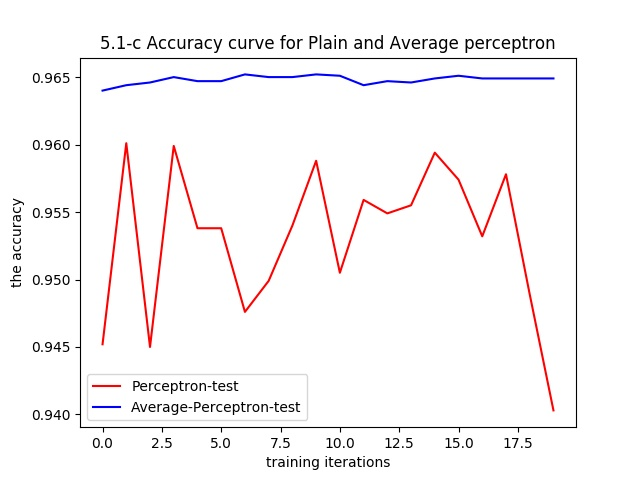
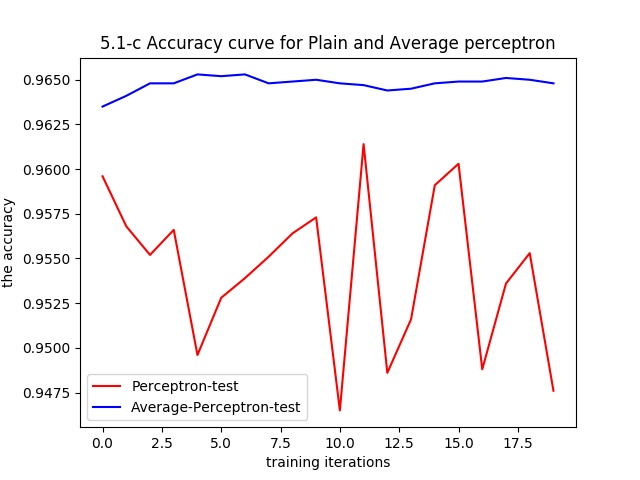
update

diff --git a/machine_learning/hw1/hw1_part1_a.py b/machine_learning/hw1/hw1_part1_a.py
@@ -10,12 +10,14 @@ train = pd.read_csv("data/fashion-mnist_train.csv")
 T = 50  # Training iterations
 
 
-y = []  # Translate the label to (+1,-1)
+y = np.zeros(len(train))  # Translate the label to (+1,-1)
 for i in range(len(train)):
-    y.append(-1 if train.iloc[i][0] % 2 else 1)
+    y[i] = -1 if train.iloc[i][0] % 2 else 1
+print(y)
+
 
 def sign(w, x):
-    if sum(w*x) >= 0:
+    if np.dot(w, x) >= 0:
         return 1
     else:
         return -1
@@ -30,19 +32,15 @@ Mistake_Perceptron = np.zeros(T)
 Mistake_PA = np.zeros(T)
 
 for i in range(T):
-    MP = 0
-    MA = 0
     for j in range(len(train)):
         x = train.iloc[j][1:]
-        y_pe = sign(w_pe, x)
-        y_pa = sign(w_pa, x)
-        if y_pe != y[j]:  # If Perceptron mistake
+        if sign(w_pe, x) != y[j]:  # If Perceptron mistake
             w_pe += y[j] * x
             Mistake_Perceptron[i] += 1
-        if y_pa != y[j]:  # If PA mistake
-            w_pa += y[j] * x * (1-y[j]*w_pa*x) / np.dot(x, x)
+        if sign(w_pa, x) != y[j]:  # If PA mistake
+            w_pa += y[j] * np.dot(x, (1-y[j]*np.dot(w_pa, x))) / np.dot(x, x)
             Mistake_PA[i] += 1
-    #print(Mistake_Perceptron[i], Mistake_PA[i])
+
 plt.figure(num=1)
 plt.plot(Mistake_Perceptron, color="red", label="Percetpron")
 plt.plot(Mistake_PA, color="blue", label="Passive-Aggressive")

diff --git a/machine_learning/hw1/hw1_part1_d.py b/machine_learning/hw1/hw1_part1_d.py
@@ -11,12 +11,13 @@ test = pd.read_csv("data/fashion-mnist_test.csv")
 T = 20  # Training iterations
 
 
-y_train = []  # Translate the label to (+1,-1)
-y_test = []
+y_train = np.zeros(len(train))  # Translate the label to (+1,-1)
+y_test = np.zeros(len(train))
 for i in range(len(train)):
-    y_train.append(-1 if train.iloc[i][0] % 2 else 1)
+    y_train[i] = -1 if train.iloc[i][0] % 2 else 1
 for i in range(len(test)):
-    y_test.append(-1 if test.iloc[i][0] % 2 else 1)
+    y_test[i] = -1 if test.iloc[i][0] % 2 else 1
+
 
 def sign(w, x):
     if np.dot(w, x) >= 0:
@@ -38,8 +39,8 @@ for i in range(T):
         if sign(w_pe, x_train) != y_train[j]:
             w_pe += y_train[j] * x_train
         if sign(w_pa, x_train) != y_train[j]:
-            w_pa += y_train[j] * x_train * (1-y_train[j]*w_pa*x_train) / \
-                (np.linalg.norm(x_train)**2)
+            w_pa += y_train[j] * np.dot(x_train, (1 - y_train[j] * \
+                        np.dot(w_pa, x_train))) / np.dot(x_train, x_train)
         if not (j+1) % 5000:
             for k in range(len(test)):
                 x_test = test.iloc[k][1:]

diff --git a/machine_learning/hw1/hw1_part1_b.py b/machine_learning/hw1/hw1_part1_b.py
@@ -11,12 +11,12 @@ test = pd.read_csv("data/fashion-mnist_test.csv")
 T = 20  # Training iterations
 
 
-y_train = []  # Translate the label to (+1,-1)
-y_test = []
+y_train = np.zeros(len(train))  # Translate the label to (+1,-1)
+y_test = np.zeros(len(train))
 for i in range(len(train)):
-    y_train.append(-1 if train.iloc[i][0] % 2 else 1)
+    y_train[i] = -1 if train.iloc[i][0] % 2 else 1
 for i in range(len(test)):
-    y_test.append(-1 if test.iloc[i][0] % 2 else 1)
+    y_test[i] = -1 if test.iloc[i][0] % 2 else 1
 
 
 def sign(w, x):
@@ -41,8 +41,8 @@ for i in range(T):
             w_pe += y_train[j] * x
             Mistake_Perceptron[i] += 1
         if sign(w_pa, x) != y_train[j]:  # If PA mistake
-            w_pa += y_train[j] * x * (1-y_train[j]*w_pa*x) / \
-                    (np.linalg.norm(x)**2)
+            w_pa += y_train[j] * np.dot(x, (1-y_train[j]*np.dot(w_pa, x))) / \
+                    np.dot(x, x)
             Mistake_PA[i] += 1
     for j in range(len(test)):
         x = test.iloc[j][1:]

diff --git a/machine_learning/hw1/hw1_part1_c.py b/machine_learning/hw1/hw1_part1_c.py
@@ -18,12 +18,13 @@ def sign(w, x):
     else:
         return -1
 
-y_train = []  # Translate the label to (+1,-1)
-y_test = []
+y_train = np.zeros(len(train))  # Translate the label to (+1,-1)
+y_test = np.zeros(len(train))
 for i in range(len(train)):
-    y_train.append(1 if train.iloc[i][0]%2 else -1)
+    y_train[i] = -1 if train.iloc[i][0] % 2 else 1
 for i in range(len(test)):
-    y_test.append(1 if test.iloc[i][0]%2 else -1)
+    y_test[i] = -1 if test.iloc[i][0] % 2 else 1
+
 
 # initial the weight w.
 w_pe = np.zeros(784)
@@ -58,7 +59,7 @@ for i in range(T):
     # Since we still need more iteration, reset the weight
     # to prevent overfitting.
     w_av += (1/c) * u
-
+    print(Mistake_test_Perceptron[i])
 print("Plain Perceptron :", 1-Mistake_test_Perceptron/len(test))
 print("Average Perceptron: ", 1-Mistake_test_Average/len(test))
 plt.figure(num=3)

diff --git a/machine_learning/hw1/11651502-Mengxiao.tex b/machine_learning/hw1/11651502-Mengxiao.tex
@@ -1,0 +1,10 @@
+\documentclass{article}
+    \author{Mengxiao}
+    \title{Cpts570-hw1}
+    \usepackage{graphicx}
+\begin{document}
+    \maketitle
+    \pagebreak
+    \section{1 Analytical Part} 
+        \subsection{}
+\end{document}
